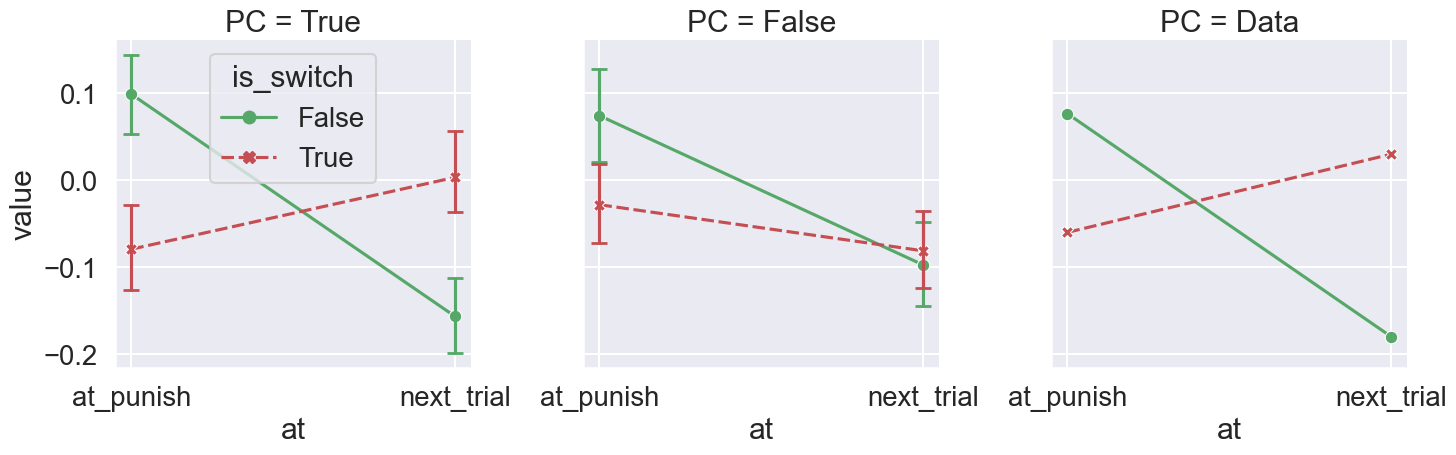
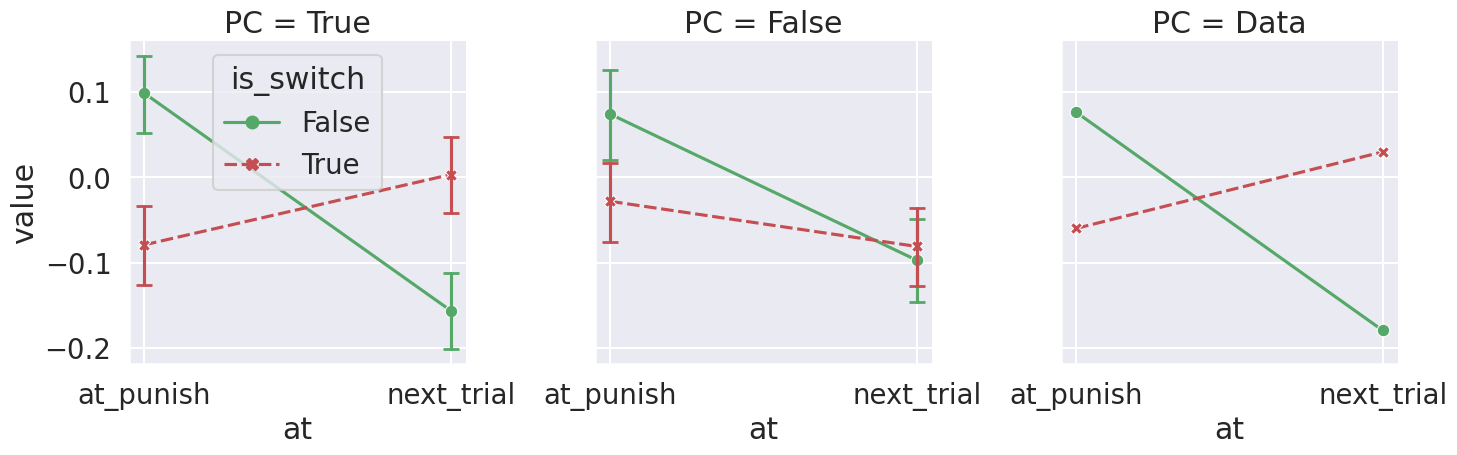
update 3 files and create 1 file update 6 files

diff --git a/experiments/nature_reversal_task/README.md b/experiments/nature_reversal_task/README.md
@@ -1,11 +1,11 @@
 <!-- TOC -->
 
-- [base-plot](#base-plot)
-  - [Fit plot to data](#fit-plot-to-data)
-  - [Apply fit data and plot](#apply-fit-data-and-plot)
-- [base-plot-fit-plot-reason](#base-plot-fit-plot-reason)
-- [base-reason-simple](#base-reason-simple)
-- [base-reason-simple-inference](#base-reason-simple-inference)
+-   [base-plot](#base-plot)
+    -   [Fit plot to data](#fit-plot-to-data)
+    -   [Apply fit data and plot](#apply-fit-data-and-plot)
+-   [base-plot-fit-plot-reason](#base-plot-fit-plot-reason)
+-   [base-reason-simple](#base-reason-simple)
+-   [base-reason-simple-inference](#base-reason-simple-inference)
 
 <!-- /TOC -->
 
@@ -61,7 +61,7 @@ python analysis_v1.py \
 
 Fit the above plot to the data in biological experiments.
 
-Data in biological experiments is defined in ```.utils.py```.
+Data in biological experiments is defined in `.utils.py`.
 
 ```bash
 python analysis_v1.py \
@@ -80,7 +80,7 @@ python analysis_v1.py \
 "print(df2tb(df.head(3)))"
 ```
 
-Make sure the ```fit_data_w``` and ```fit_data_b``` are within the range of the search defined in ```.utils.py```.
+Make sure the `fit_data_w` and `fit_data_b` are within the range of the search defined in `.utils.py`.
 
 ## Apply fit data and plot
 
@@ -90,6 +90,9 @@ python analysis_v1.py \
 -l "$RESULTS_DIR/nature_reversal_task/" \
 -m "compress_plot('log','training_iteration')" \
 -f "./experiments/nature_reversal_task/base-plot-pc.yaml" "./experiments/nature_reversal_task/base-plot-bp.yaml" \
+--fig-name fig6-c \
+--source-include-columns seed PC at value is_switch \
+--source-columns-rename '{"PC": "PC (True) / BP (False) / Data (Data)"}' \
 -v \
 "import experiments.nature_reversal_task.utils as u" \
 "df=u.prepare_df(df)" \
